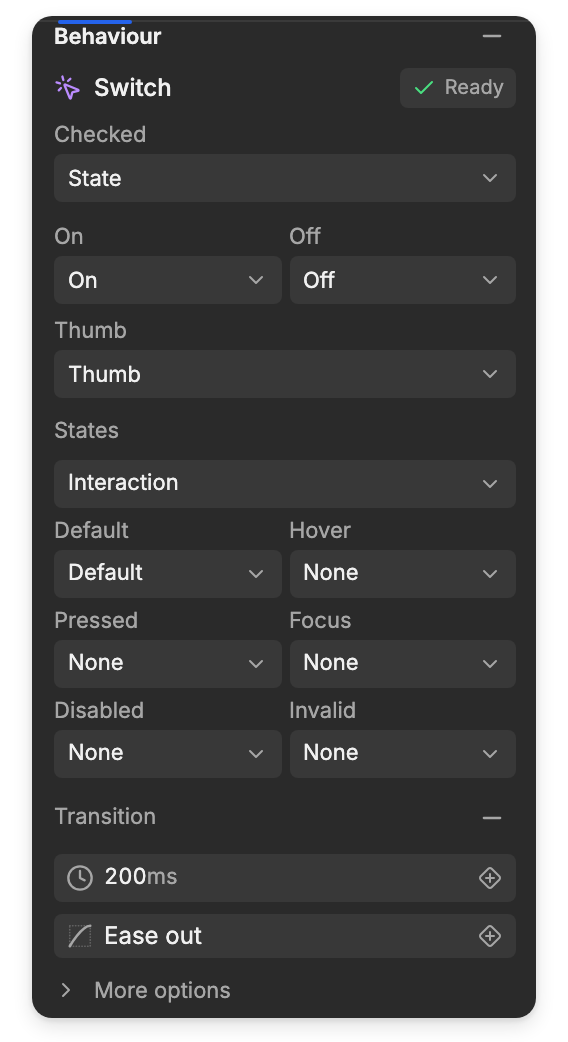
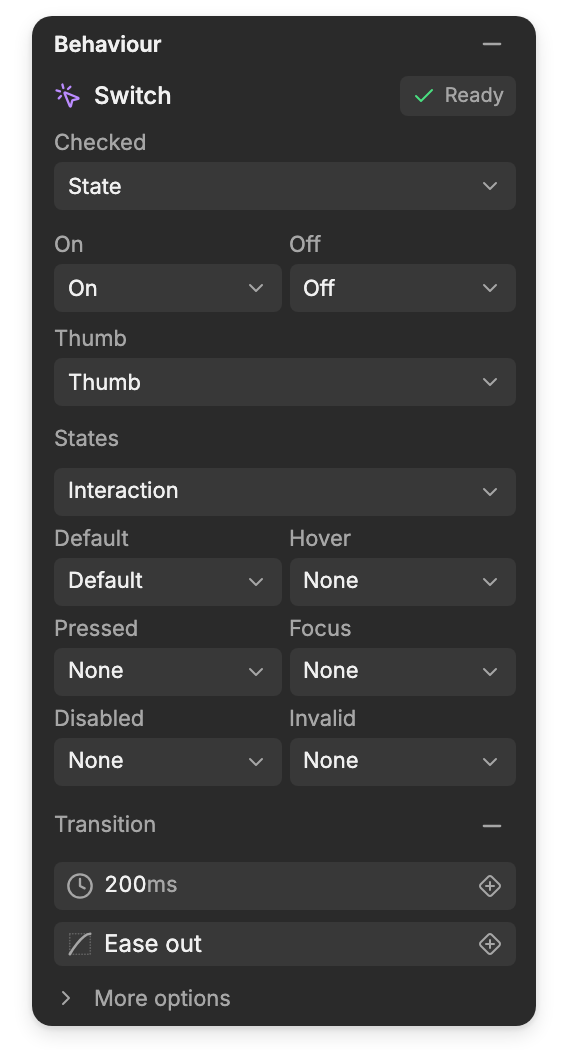
docs: keep the panel tabs out of the Behaviour picture

diff --git a/tools/generate/guide-images/src/shots/components/index.ts b/tools/generate/guide-images/src/shots/components/index.ts
@@ -139,7 +139,15 @@ export const SHOTS: Record<string, Shot> = {
       await panel
         .getByText('Behaviour', { exact: true })
         .first()
-        .evaluate((heading) => heading.scrollIntoView({ block: 'start' }))
+        .evaluate((heading) => {
+          // Near the top of the panel, with room above for the clip: the tabs stay out of it.
+          heading.scrollIntoView({ block: 'start' })
+          let scroller = heading.parentElement
+          while (scroller && scroller.scrollHeight <= scroller.clientHeight) {
+            scroller = scroller.parentElement
+          }
+          scroller?.scrollBy(0, -48)
+        })
       await settle(page)
       const next = await boxOf(panel.getByText('Position', { exact: true }).first())
       const clip = await panelClip(page, 'Behaviour', {
@@ -148,8 +156,7 @@ export const SHOTS: Record<string, Shot> = {
         width: 0,
         height: 0
       })
-      // Below the tabs' underline, which the scroll leaves at the top.
-      return picture(page, { ...clip, y: clip.y + 4, height: clip.height - 4 }, PANEL_RADIUS)
+      return picture(page, clip, PANEL_RADIUS)
     }
   }
 }
